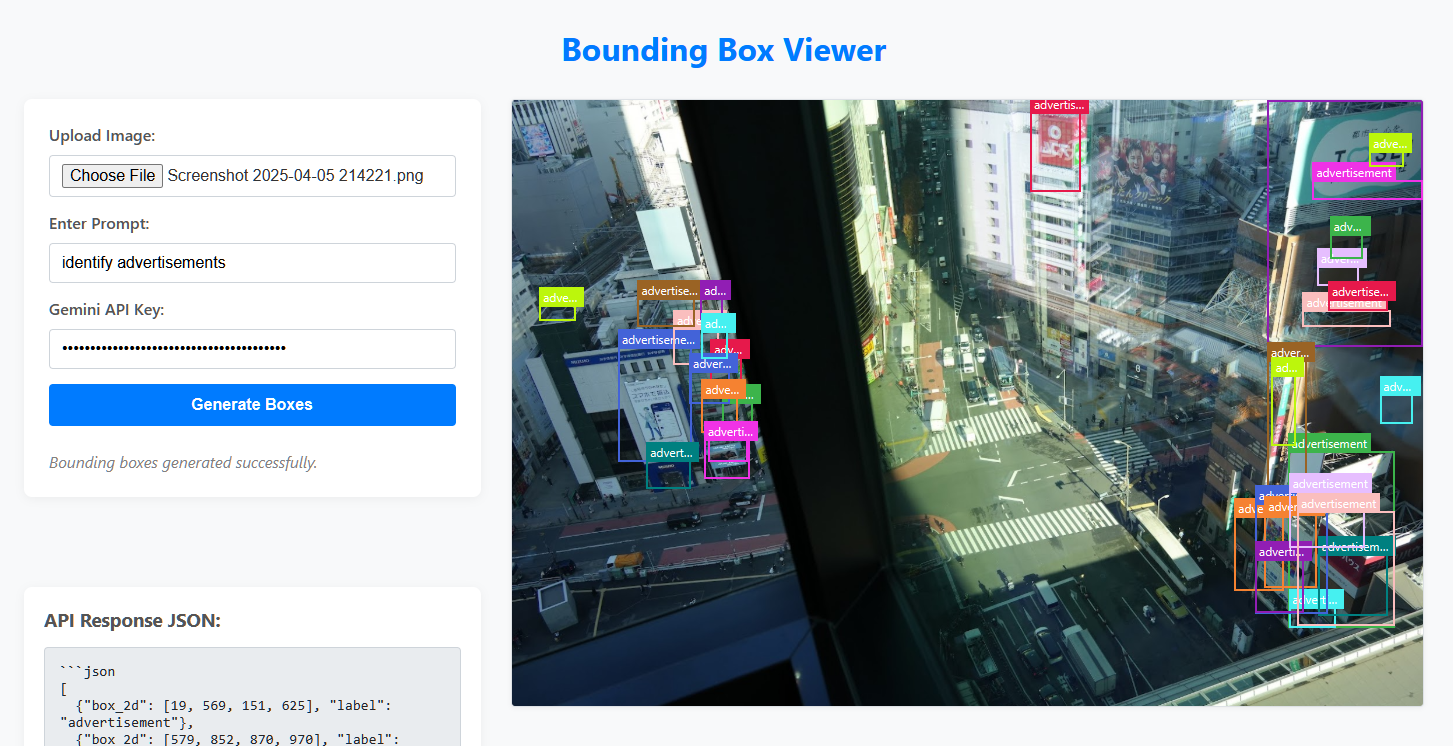
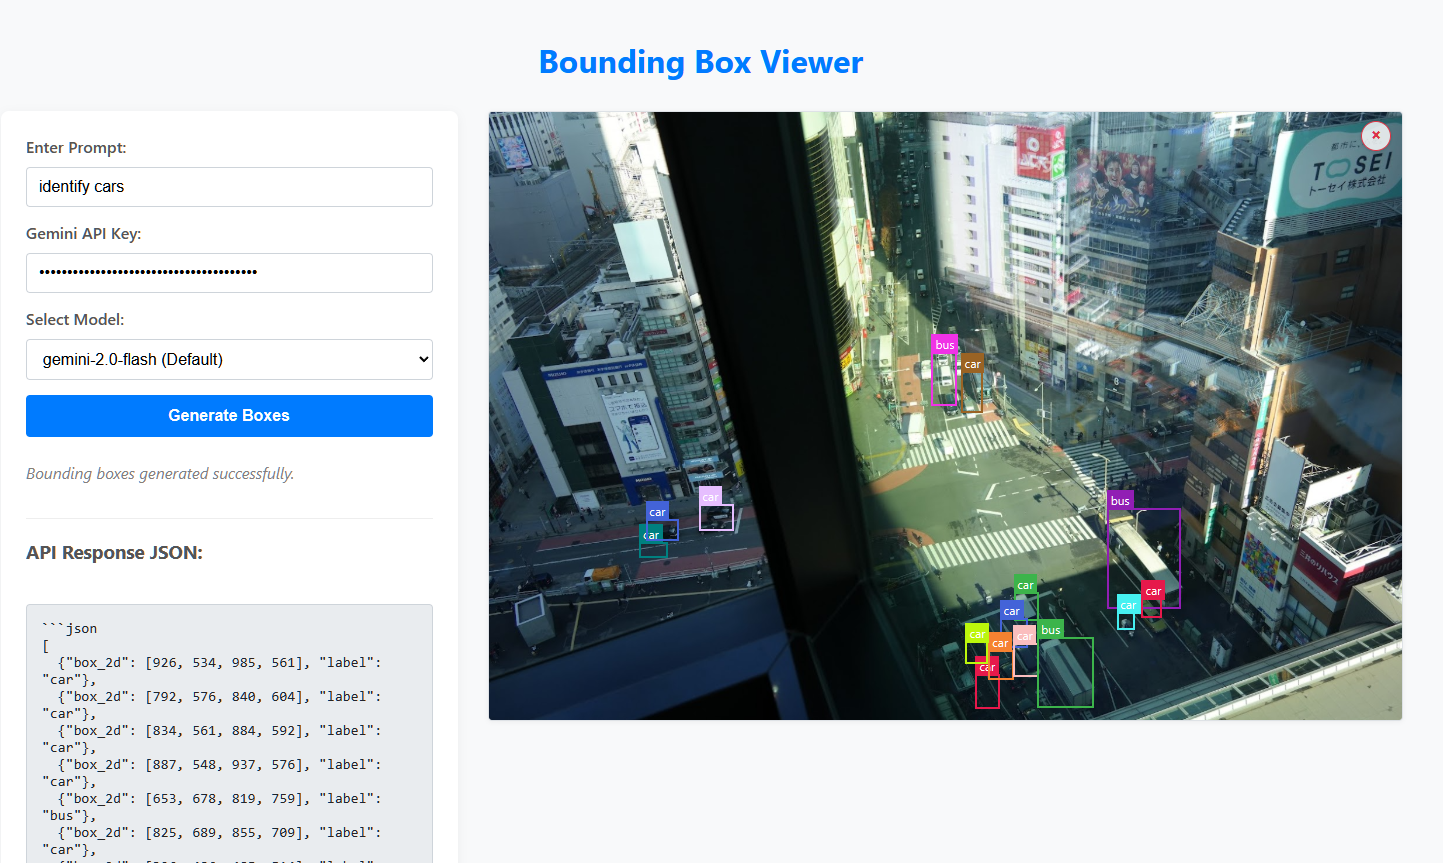
enhanced interface

diff --git a/index.html b/index.html
@@ -37,13 +37,15 @@
         }
         input[type="file"],
         input[type="text"],
-        input[type="password"] {
+        input[type="password"],
+        select { /* Add select styling */
             padding: 10px 12px;
             border: 1px solid #ced4da;
             border-radius: 4px;
             font-size: 1rem;
             width: 100%;
             box-sizing: border-box;
+            background-color: white; /* Ensure select background is white */
         }
         input[type="file"] {
             padding: 8px 12px; /* Slightly different padding for file input */
@@ -68,17 +70,17 @@
         }
         #image-container {
             position: relative;
-            margin-top: 20px;
-            max-width: 100%; /* Ensure container doesn't overflow */
-            border: 1px solid #dee2e6; /* Lighter border */
-            border-radius: 4px; /* Rounded corners */
-            overflow: hidden; /* Ensure image stays within rounded corners */
-            box-shadow: 0 1px 5px rgba(0, 0, 0, 0.05);
+            position: relative; /* Keep for bbox positioning */
+            width: 100%; /* Allow image container to fill right panel */
+            /* border, radius, overflow, shadow removed - applied to dropzone or image directly */
         }
         #uploaded-image {
-            display: block; /* Remove extra space below image */
-            max-width: 100%; /* Ensure image scales down */
-            height: auto; /* Maintain aspect ratio */
+            display: block; /* Let the container control visibility */
+            max-width: 100%;
+            height: auto;
+            border: 1px solid #dee2e6;
+            border-radius: 4px;
+            box-shadow: 0 1px 5px rgba(0, 0, 0, 0.05);
         }
         .bbox {
             position: absolute;
@@ -98,17 +100,14 @@
             font-style: italic;
             color: #6c757d; /* Gray color for status */
         }
-        #api-output-container {
-            background-color: #ffffff;
-            padding: 20px;
-            border-radius: 8px;
-            box-shadow: 0 2px 10px rgba(0, 0, 0, 0.05);
-            margin-top: 30px;
-        }
-        #api-output-container h3 {
-            margin-top: 0;
-            margin-bottom: 15px;
-            color: #555;
+        /* #api-output-container styles removed as it's merged into #controls */
+        /* Style for the API output heading *within* the controls card */
+        #controls h3 {
+             margin-top: 20px; /* Add some space above the heading */
+             margin-bottom: 10px;
+             color: #555;
+             border-top: 1px solid #eee; /* Add a separator line */
+             padding-top: 20px; /* Space above the separator */
         }
         #api-output {
             background-color: #e9ecef; /* Lighter gray for code block */
@@ -133,7 +132,7 @@
             flex: 1; /* Takes up 1 part of the space */
             display: flex;
             flex-direction: column;
-            gap: 30px; /* Space between controls and API output */
+            /* gap removed as API output is now inside controls */
         }
         #right-panel {
             flex: 2; /* Takes up 2 parts of the space */
@@ -141,14 +140,63 @@
             justify-content: center; /* Center image container if panel is wider */
         }
         /* Adjust max-width for controls and API output to fit left panel */
-        #controls, #api-output-container {
+        #controls { /* #api-output-container removed */
             max-width: 100%; /* Allow them to fill the left panel */
             width: 100%;
             box-sizing: border-box;
         }
+        /* Style for the drop zone */
+        #drop-zone {
+            display: flex; /* Use flexbox for centering */
+            flex-direction: column;
+            justify-content: center;
+            align-items: center;
+            width: 100%;
+            min-height: 300px; /* Give it some initial size */
+            border: 2px dashed #007bff;
+            border-radius: 8px;
+            background-color: #f8f9fa;
+            color: #6c757d;
+            font-size: 1.2rem;
+            text-align: center;
+            cursor: pointer;
+            transition: background-color 0.2s ease;
+            padding: 20px;
+            box-sizing: border-box;
+        }
+        #drop-zone.dragover {
+            background-color: #e2e6ea; /* Highlight when dragging over */
+        }
+        #drop-zone p {
+            margin: 5px 0;
+        }
         #image-container {
-             margin-top: 0; /* Remove top margin as it's handled by panel gap */
-             width: 100%; /* Allow image container to fill right panel */
+             margin-top: 0;
+             width: 100%;
+             position: relative; /* Ensure button positioning is relative to this */
+        }
+        #clear-image-button {
+            position: absolute;
+            top: 10px;
+            right: 10px;
+            background-color: rgba(255, 255, 255, 0.8); /* Semi-transparent white */
+            color: #dc3545; /* Red color for delete/clear */
+            border: 1px solid #dc3545;
+            border-radius: 50%; /* Circular */
+            width: 30px;
+            height: 30px;
+            padding: 0; /* Remove default padding */
+            font-size: 16px; /* Adjust icon size */
+            font-weight: bold;
+            line-height: 28px; /* Center the 'X' vertically */
+            text-align: center;
+            cursor: pointer;
+            box-shadow: 0 1px 3px rgba(0,0,0,0.2);
+            z-index: 10; /* Ensure it's above the image */
+        }
+        #clear-image-button:hover {
+            background-color: #dc3545; /* Red background on hover */
+            color: white;
         }
     </style>
 </head>
@@ -158,28 +206,45 @@
     <div id="main-content">
         <div id="left-panel">
             <div id="controls">
-        <label for="image-upload">Upload Image:</label>
-        <input type="file" id="image-upload" accept="image/*">
+        <!-- File input removed from here -->
 
         <label for="prompt-input">Enter Prompt:</label>
         <input type="text" id="prompt-input" placeholder="e.g., identify all cars">
 
         <label for="api-key">Gemini API Key:</label> <!-- Added API Key input -->
         <input type="password" id="api-key" placeholder="Enter your Gemini API Key">
+ 
+        <label for="model-select">Select Model:</label>
+        <select id="model-select">
+            <option value="gemini-2.0-flash" selected>gemini-2.0-flash (Default)</option>
+            <option value="gemini-2.5-pro-exp-03-25">gemini-2.5-pro-exp-03-25</option>
+        </select>
 
         <button id="generate-button">Generate Boxes</button>
         <div id="status-message" style="margin-top: 10px; color: gray;"></div> <!-- Added status message area -->
-            </div> <!-- closing controls -->
-
-            <div id="api-output-container"> <!-- Styles moved to CSS -->
+ 
+                <!-- API Response Section Moved Inside Controls Card -->
                 <h3>API Response JSON:</h3>
                 <pre id="api-output"></pre>
-            </div>
+            </div> <!-- closing controls -->
+ 
+            <!-- Removed separate api-output-container div -->
         </div> <!-- closing left-panel -->
 
         <div id="right-panel">
-             <div id="image-container">
-                <img id="uploaded-image" src="#" alt="Upload an image to view bounding boxes" />
+            <!-- Drop Zone Area -->
+            <div id="drop-zone">
+                <svg xmlns="http://www.w3.org/2000/svg" width="64" height="64" fill="currentColor" class="bi bi-cloud-arrow-up-fill" viewBox="0 0 16 16">
+                    <path d="M8 2a5.53 5.53 0 0 0-3.594 1.342c-.766.66-1.321 1.52-1.464 2.383C1.266 6.095 0 7.555 0 9.318 0 11.366 1.708 13 3.781 13h8.906C14.502 13 16 11.57 16 9.773c0-1.636-1.242-2.969-2.834-3.194C12.923 3.999 10.69 2 8 2m2.354 5.146a.5.5 0 0 1-.708.708L8.5 6.707V10.5a.5.5 0 0 1-1 0V6.707L6.354 7.854a.5.5 0 1 1-.708-.708l2-2a.5.5 0 0 1 .708 0z"/>
+                </svg>
+                <p><strong>Drag & Drop Image Here</strong></p>
+                <p>or</p>
+                <p>Click to Upload</p>
+            </div>
+            <!-- Image Display Area (initially hidden via CSS) -->
+            <div id="image-container" style="display: none;"> <!-- JS will toggle this -->
+                <button id="clear-image-button" title="Clear Image">&times;</button> <!-- Added Clear Button -->
+                <img id="uploaded-image" src="#" alt="Uploaded image" />
                 <!-- Bounding boxes will be added here dynamically -->
             </div>
         </div> <!-- closing right-panel -->
@@ -187,14 +252,17 @@
 
     <script>
         // --- DOM Elements ---
-        const imageUpload = document.getElementById('image-upload');
+        // const imageUpload = document.getElementById('image-upload'); // Removed
+        const dropZone = document.getElementById('drop-zone');
         const uploadedImage = document.getElementById('uploaded-image');
         const promptInput = document.getElementById('prompt-input');
         const apiKeyInput = document.getElementById('api-key');
         const generateButton = document.getElementById('generate-button');
-        const imageContainer = document.getElementById('image-container');
+        const imageContainer = document.getElementById('image-container'); // The div containing the img
         const statusMessage = document.getElementById('status-message');
         const apiOutput = document.getElementById('api-output');
+        const clearImageButton = document.getElementById('clear-image-button');
+        const modelSelect = document.getElementById('model-select'); // Added model select reference
 
         // --- State Variables ---
 
@@ -202,18 +270,54 @@
         let currentFile = null; // Store the current file object
 
         // --- Event Listeners ---
-        imageUpload.addEventListener('change', handleImageUpload);
+        // imageUpload.addEventListener('change', handleImageUpload); // Removed
         generateButton.addEventListener('click', handleGenerateClick);
-        window.addEventListener('resize', handleResize); // Keep resize listener
+        window.addEventListener('resize', handleResize);
+
+        // Drop Zone Event Listeners
+        dropZone.addEventListener('click', () => {
+            // Create a hidden file input and click it
+            const fileInput = document.createElement('input');
+            fileInput.type = 'file';
+            fileInput.accept = 'image/*';
+            fileInput.style.display = 'none';
+            fileInput.addEventListener('change', (event) => {
+                handleFileSelect(event.target.files[0]);
+            });
+            document.body.appendChild(fileInput); // Required for some browsers
+            fileInput.click();
+            document.body.removeChild(fileInput); // Clean up
+        });
+
+        dropZone.addEventListener('dragover', (event) => {
+            event.preventDefault(); // Prevent default browser behavior
+            dropZone.classList.add('dragover');
+        });
+
+        dropZone.addEventListener('dragleave', () => {
+            dropZone.classList.remove('dragover');
+        });
+
+        dropZone.addEventListener('drop', (event) => {
+            event.preventDefault(); // Prevent default browser behavior
+            dropZone.classList.remove('dragover');
+            const file = event.dataTransfer.files[0];
+            handleFileSelect(file);
+        });
+ 
+        clearImageButton.addEventListener('click', resetToDropZone); // Added listener for clear button
 
         // --- Global Variables ---
         let resizeTimeout; // Single declaration
 
         // --- Functions ---
 
-        function handleImageUpload(event) {
-            const file = event.target.files[0];
-            if (!file) return;
+        // Renamed from handleImageUpload, now takes a file object directly
+        function handleFileSelect(file) {
+            if (!file || !file.type.startsWith('image/')) {
+                alert('Please select an image file.');
+                return;
+            }
 
             currentFile = file; // Store the file object
 
@@ -225,10 +329,42 @@
             currentObjectUrl = URL.createObjectURL(file); // Create efficient object URL
             uploadedImage.src = currentObjectUrl;
 
+            // Show image container, hide drop zone
+            imageContainer.style.display = 'block';
+            dropZone.style.display = 'none';
+
+
             // Reset UI elements
             statusMessage.textContent = '';
             apiOutput.textContent = '';
             clearBoundingBoxes();
+
+            // Ensure image dimensions are ready before potential drawing
+            uploadedImage.onload = () => {
+                 console.log("Image loaded, dimensions:", uploadedImage.clientWidth, uploadedImage.clientHeight);
+                 // If there were pending boxes to draw, could draw them here.
+            };
+            uploadedImage.onerror = () => {
+                console.error("Error loading image preview.");
+                alert("Could not load image preview.");
+                resetToDropZone(); // Go back to drop zone state on error
+            };
+        }
+
+        // Function to reset the UI back to the drop zone state
+        function resetToDropZone() {
+             if (currentObjectUrl) {
+                URL.revokeObjectURL(currentObjectUrl);
+                currentObjectUrl = null;
+            }
+            currentFile = null;
+            uploadedImage.onerror = null; // Remove the error handler first
+            uploadedImage.src = '#'; // Clear image source
+            imageContainer.style.display = 'none'; // Hide image container
+            dropZone.style.display = 'flex'; // Show drop zone
+            clearBoundingBoxes();
+            statusMessage.textContent = '';
+            apiOutput.textContent = '';
         }
 
         // Helper function to convert file to base64
@@ -257,6 +393,11 @@
                 alert('Please enter your Gemini API Key.');
                 return;
             }
+            const selectedModel = modelSelect.value; // Get selected model
+            if (!selectedModel) {
+                 alert('Please select a model.'); // Should not happen with default
+                 return;
+            }
 
             // Update UI state
             clearBoundingBoxes();
@@ -265,7 +406,7 @@
             generateButton.disabled = true;
 
             try {
-                const apiResponseText = await callGeminiApi(prompt, apiKey, currentFile);
+                const apiResponseText = await callGeminiApi(prompt, apiKey, currentFile, selectedModel); // Pass model
                 apiOutput.textContent = apiResponseText; // Display raw response
                 processApiResponse(apiResponseText);
                 statusMessage.textContent = 'Bounding boxes generated successfully.';
@@ -285,11 +426,11 @@
             }
         }
 
-        // Calls the Gemini API
-        async function callGeminiApi(prompt, apiKey, file) {
+        // Calls the Gemini API - now accepts selectedModel
+        async function callGeminiApi(prompt, apiKey, file, selectedModel) {
             const imageBase64 = await getBase64(file);
-            // Using gemini-pro-vision as it's commonly available
-            const apiUrl = `https://generativelanguage.googleapis.com/v1beta/models/gemini-2.0-flash:generateContent?key=${apiKey}`;
+            // Use the selected model in the API URL
+            const apiUrl = `https://generativelanguage.googleapis.com/v1beta/models/${selectedModel}:generateContent?key=${apiKey}`;
 
             const requestBody = {
                 contents: [{
@@ -454,7 +595,7 @@
 
         // Debounced resize handler
         function handleResize() {
-             if (uploadedImage.src && !uploadedImage.src.endsWith('#')) {
+             if (currentFile && uploadedImage.src && !uploadedImage.src.endsWith('#')) { // Check currentFile as well
                 clearTimeout(resizeTimeout);
                 // Avoid automatic redraw on resize as boxes are from API.
                 // User can click "Generate" again if layout changes significantly.
